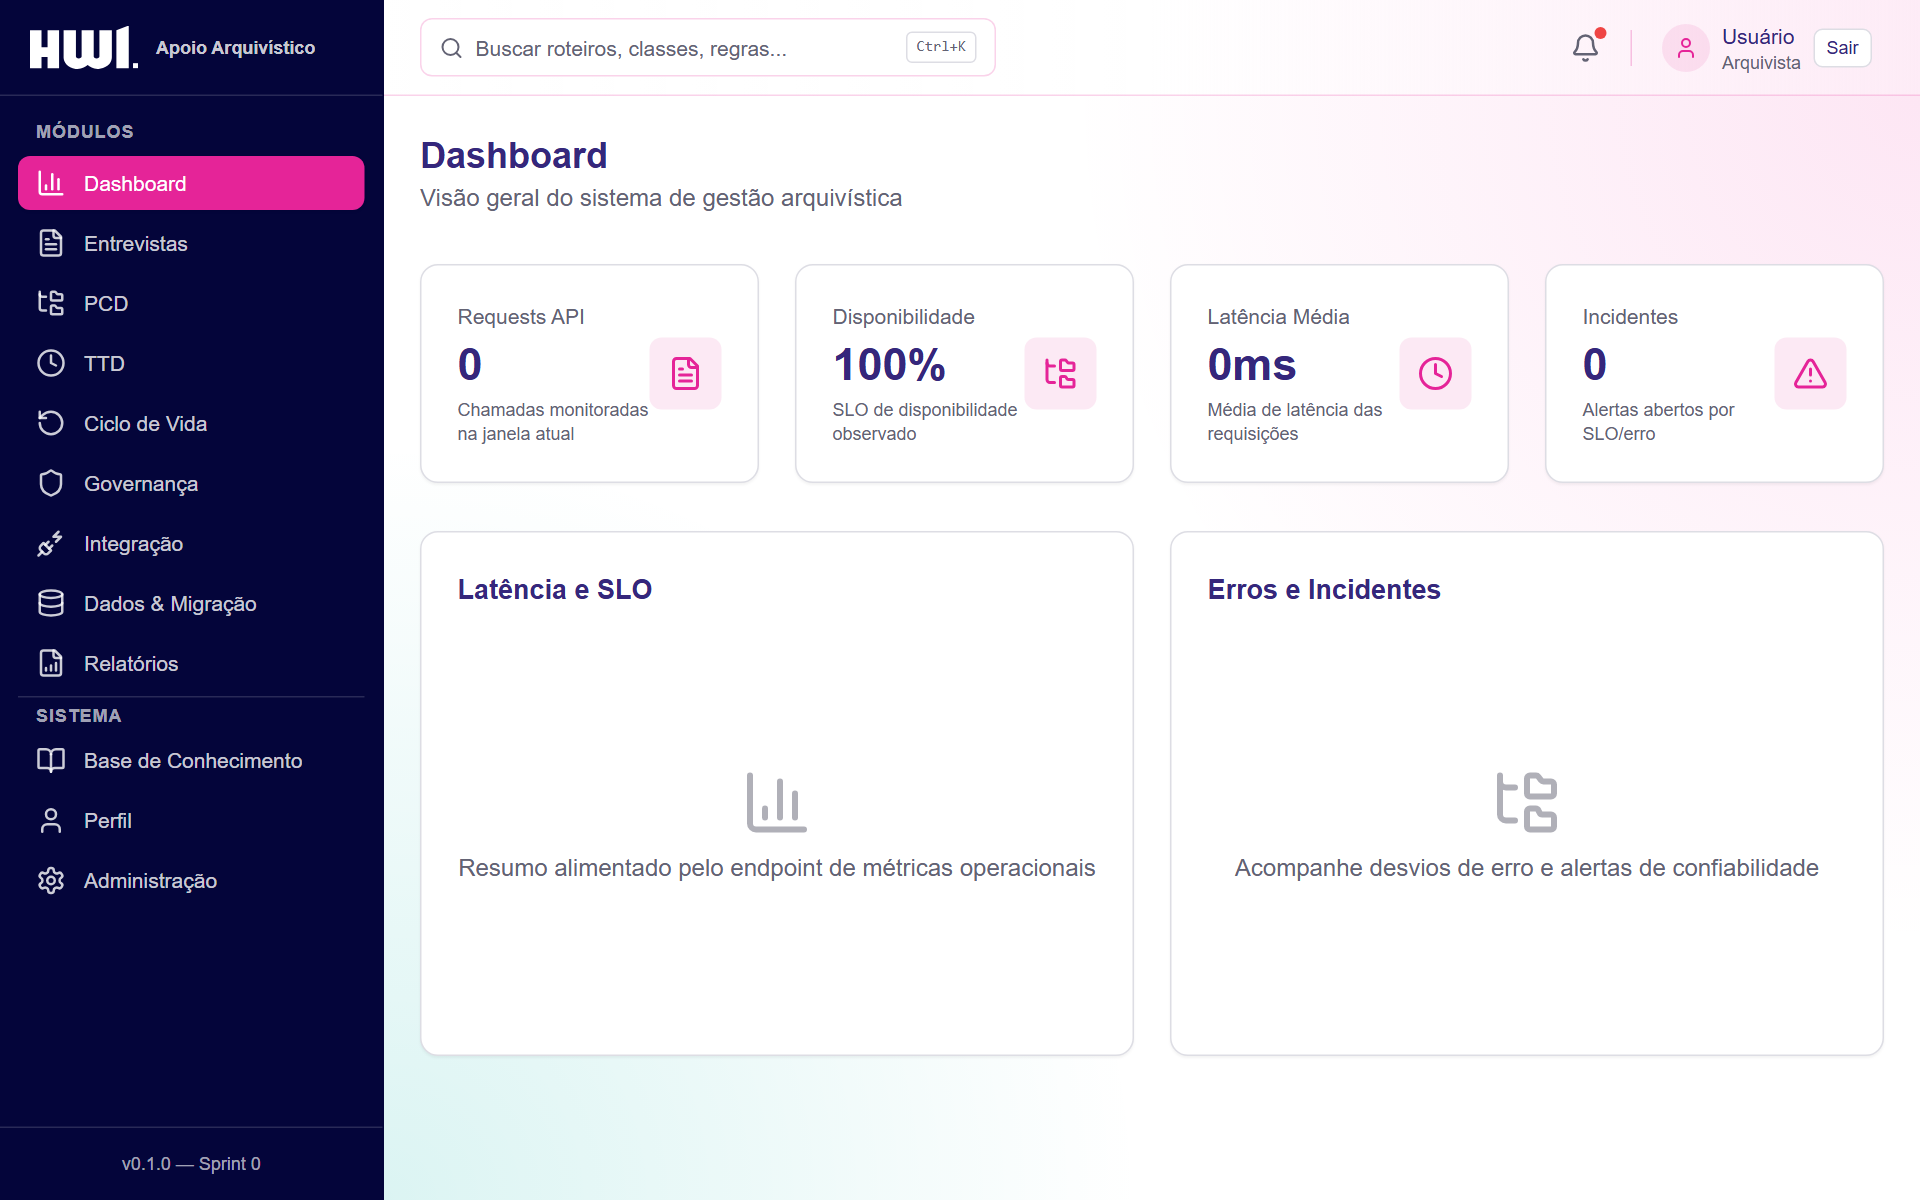
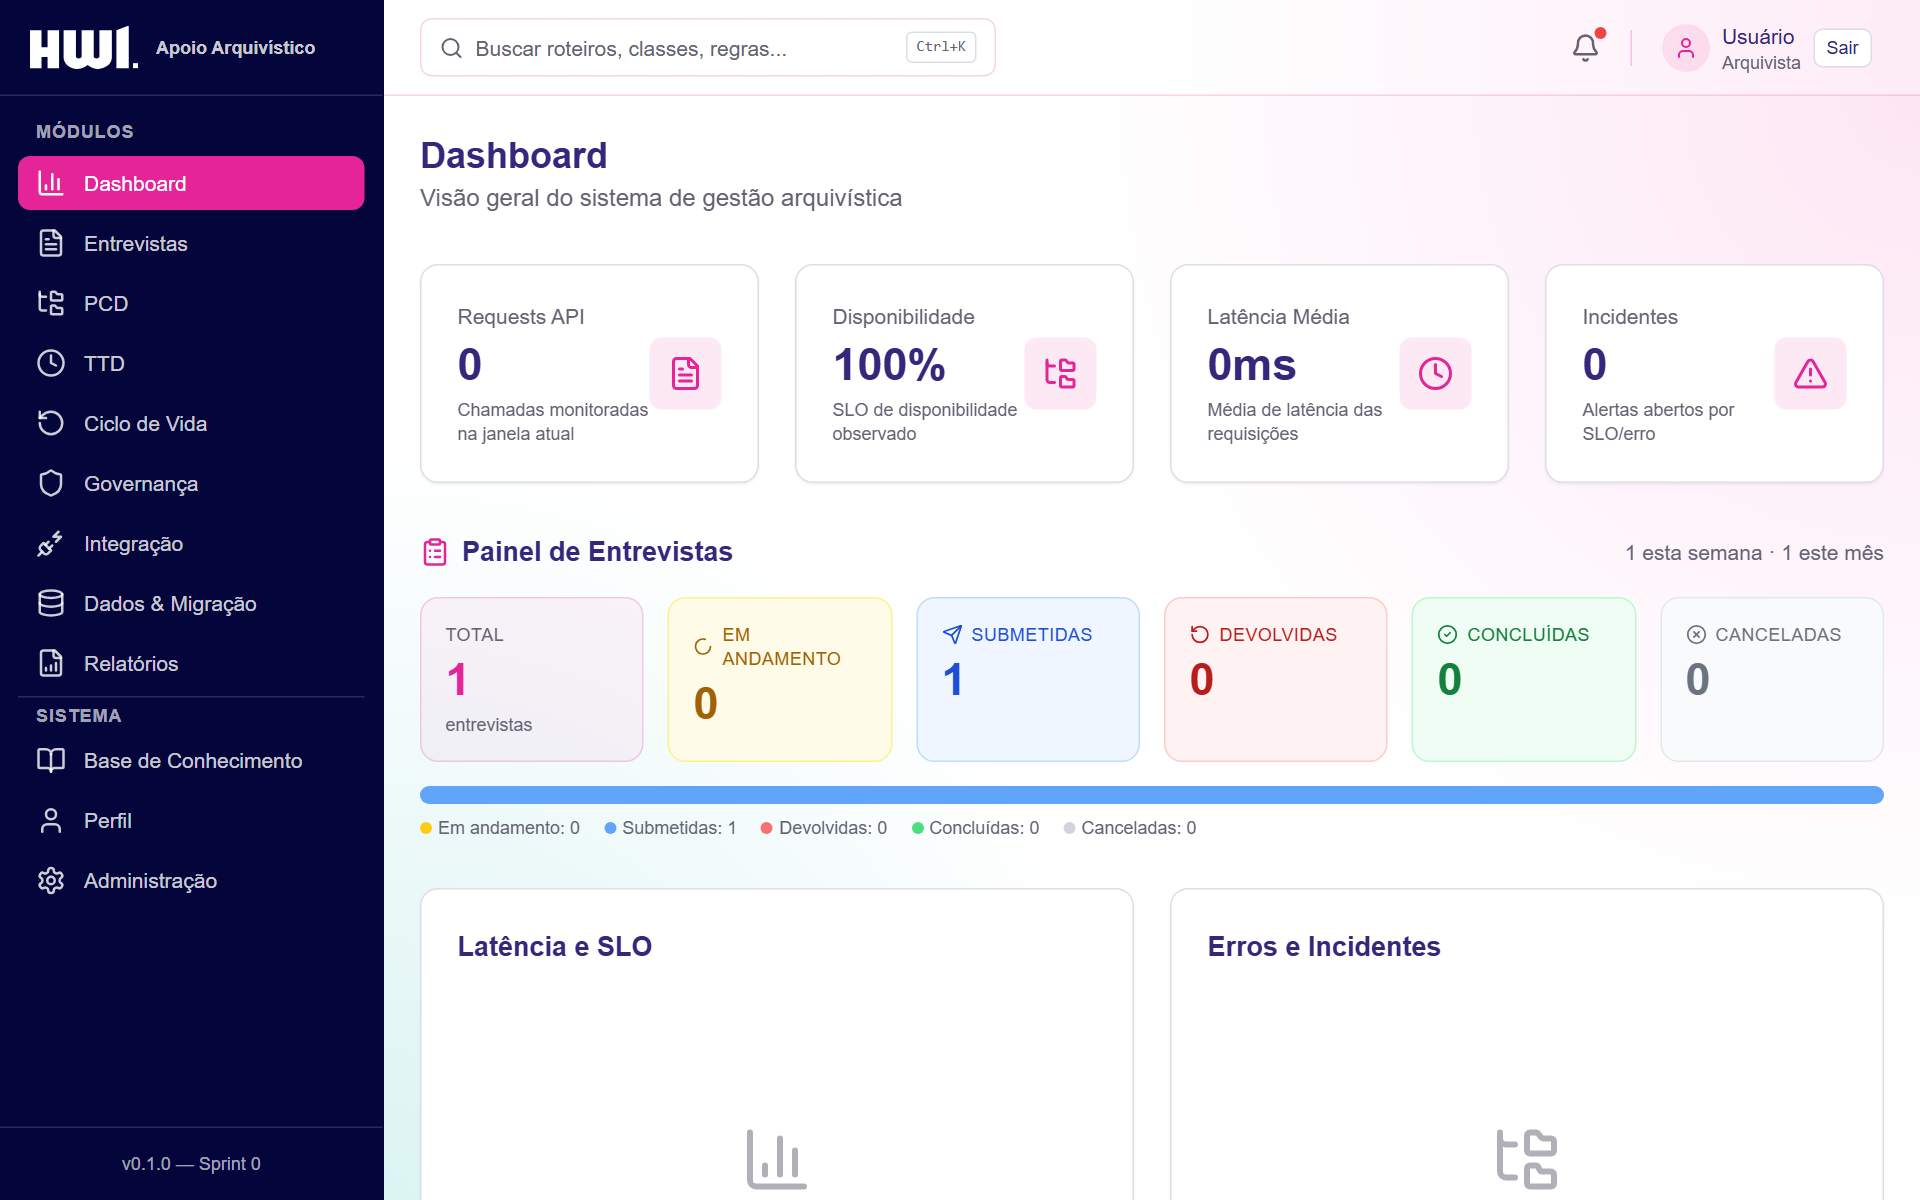
feat(dashboard): painel agregado de status de entrevistas
- Backend: GET /roteiros/entrevistas/resumo retorna total, por_status,
  esta_semana e este_mes com queries SQLAlchemy async
- Frontend hook: useEntrevistasResumo() via SWR em use-api.ts
- Dashboard: secao Painel de Entrevistas com card total, 5 cards por
  status (cores/icones Lucide), barra proporcional e legenda
- Screenshot do dashboard atualizado com novo painel

diff --git a/frontend/src/app/dashboard/page.tsx b/frontend/src/app/dashboard/page.tsx
@@ -1,12 +1,18 @@
 "use client";
 
-import { useMetricsSummary } from "@/hooks/use-api";
+import { useEntrevistasResumo, useMetricsSummary } from "@/hooks/use-api";
 import {
   BarChart3,
   FileText,
   FolderTree,
   Clock,
   AlertTriangle,
+  ClipboardList,
+  CheckCircle2,
+  RotateCcw,
+  Send,
+  XCircle,
+  Loader2,
 } from "lucide-react";
 import {
   DashboardPlaceholderChartCard,
@@ -21,9 +27,55 @@ type MetricsSummary = {
   incidents_open: number;
 };
 
+type EntrevistasResumo = {
+  total: number;
+  por_status: Record<string, number>;
+  esta_semana: number;
+  este_mes: number;
+};
+
+const STATUS_CONFIG: Record<
+  string,
+  { label: string; color: string; bg: string; icon: React.ElementType }
+> = {
+  em_andamento: {
+    label: "Em andamento",
+    color: "text-yellow-700",
+    bg: "bg-yellow-50 border-yellow-200",
+    icon: Loader2,
+  },
+  submetida: {
+    label: "Submetidas",
+    color: "text-blue-700",
+    bg: "bg-blue-50 border-blue-200",
+    icon: Send,
+  },
+  devolvida: {
+    label: "Devolvidas",
+    color: "text-red-700",
+    bg: "bg-red-50 border-red-200",
+    icon: RotateCcw,
+  },
+  concluida: {
+    label: "Concluídas",
+    color: "text-green-700",
+    bg: "bg-green-50 border-green-200",
+    icon: CheckCircle2,
+  },
+  cancelada: {
+    label: "Canceladas",
+    color: "text-gray-500",
+    bg: "bg-gray-50 border-gray-200",
+    icon: XCircle,
+  },
+};
+
 export default function DashboardPage() {
   const { data: metricsRaw } = useMetricsSummary();
   const metrics = (metricsRaw as MetricsSummary | undefined) ?? null;
+
+  const { data: resumoRaw } = useEntrevistasResumo();
+  const resumo = (resumoRaw as EntrevistasResumo | undefined) ?? null;
 
   return (
     <div className="space-y-8">
@@ -60,6 +112,113 @@ export default function DashboardPage() {
           description="Alertas abertos por SLO/erro"
           icon={AlertTriangle}
         />
+      </div>
+
+      {/* Painel de Entrevistas */}
+      <div>
+        <div className="flex items-center gap-2 mb-4">
+          <ClipboardList className="h-5 w-5 text-primary" />
+          <h2 className="text-lg font-semibold text-foreground">
+            Painel de Entrevistas
+          </h2>
+          {resumo && (
+            <span className="ml-auto text-sm text-muted-foreground">
+              {resumo.esta_semana} esta semana &middot; {resumo.este_mes} este mês
+            </span>
+          )}
+        </div>
+
+        {/* Total + status grid */}
+        <div className="grid grid-cols-2 md:grid-cols-3 lg:grid-cols-6 gap-4">
+          {/* Card total */}
+          <div className="col-span-1 rounded-xl border border-primary/20 bg-primary/5 p-4 flex flex-col gap-1">
+            <span className="text-xs font-medium text-muted-foreground uppercase tracking-wide">
+              Total
+            </span>
+            <span className="text-3xl font-bold text-primary">
+              {resumo?.total ?? "—"}
+            </span>
+            <span className="text-xs text-muted-foreground">entrevistas</span>
+          </div>
+
+          {/* Cards por status */}
+          {Object.entries(STATUS_CONFIG).map(([st, cfg]) => {
+            const Icon = cfg.icon;
+            const count = resumo?.por_status?.[st] ?? 0;
+            return (
+              <div
+                key={st}
+                className={`rounded-xl border p-4 flex flex-col gap-1 ${cfg.bg}`}
+              >
+                <div className="flex items-center gap-1.5">
+                  <Icon className={`h-3.5 w-3.5 ${cfg.color}`} />
+                  <span
+                    className={`text-xs font-medium uppercase tracking-wide ${cfg.color}`}
+                  >
+                    {cfg.label}
+                  </span>
+                </div>
+                <span className={`text-3xl font-bold ${cfg.color}`}>
+                  {resumo ? count : "—"}
+                </span>
+              </div>
+            );
+          })}
+        </div>
+
+        {/* Barra de progresso proporcional */}
+        {resumo && resumo.total > 0 && (
+          <div className="mt-4">
+            <div className="flex h-3 w-full overflow-hidden rounded-full bg-muted gap-0.5">
+              {Object.entries(STATUS_CONFIG).map(([st, cfg]) => {
+                const count = resumo.por_status?.[st] ?? 0;
+                const pct = (count / resumo.total) * 100;
+                if (pct === 0) return null;
+                return (
+                  <div
+                    key={st}
+                    title={`${cfg.label}: ${count} (${pct.toFixed(0)}%)`}
+                    style={{ width: `${pct}%` }}
+                    className={`h-full transition-all ${
+                      st === "em_andamento"
+                        ? "bg-yellow-400"
+                        : st === "submetida"
+                        ? "bg-blue-400"
+                        : st === "devolvida"
+                        ? "bg-red-400"
+                        : st === "concluida"
+                        ? "bg-green-400"
+                        : "bg-gray-300"
+                    }`}
+                  />
+                );
+              })}
+            </div>
+            <div className="flex flex-wrap gap-4 mt-2 text-xs text-muted-foreground">
+              {Object.entries(STATUS_CONFIG).map(([st, cfg]) => {
+                const count = resumo.por_status?.[st] ?? 0;
+                return (
+                  <span key={st} className="flex items-center gap-1">
+                    <span
+                      className={`inline-block h-2 w-2 rounded-full ${
+                        st === "em_andamento"
+                          ? "bg-yellow-400"
+                          : st === "submetida"
+                          ? "bg-blue-400"
+                          : st === "devolvida"
+                          ? "bg-red-400"
+                          : st === "concluida"
+                          ? "bg-green-400"
+                          : "bg-gray-300"
+                      }`}
+                    />
+                    {cfg.label}: {count}
+                  </span>
+                );
+              })}
+            </div>
+          </div>
+        )}
       </div>
 
       {/* Placeholder Charts */}

diff --git a/docs/doc-gen/_captura_dashboard.js b/docs/doc-gen/_captura_dashboard.js
@@ -1,0 +1,24 @@
+// Captura screenshot do dashboard após login
+const path = require('path');
+const { chromium } = require(require.resolve('@playwright/test', {
+  paths: [path.resolve(__dirname, '../../frontend/node_modules')],
+}));
+
+(async () => {
+  const browser = await chromium.launch({ headless: true });
+  const ctx = await browser.newContext({ viewport: { width: 1280, height: 800 }, deviceScaleFactor: 1.5 });
+  const page = await ctx.newPage();
+
+  await page.goto('http://localhost:4000/login', { waitUntil: 'networkidle', timeout: 120000 });
+  await page.fill('input[type="email"]', '[email redacted]');
+  await page.fill('input[type="password"]', 'Admin@2026');
+  await page.click('button[type="submit"]');
+  await page.waitForURL(/dashboard/, { timeout: 60000 });
+  // aguarda painel carregar dados
+  await page.waitForTimeout(3000);
+
+  const out = path.resolve(__dirname, '../screenshots/dashboard.png');
+  await page.screenshot({ path: out, fullPage: false });
+  console.log('OK:', out);
+  await browser.close();
+})().catch(e => { console.error(e.message); process.exit(1); });

diff --git a/frontend/src/hooks/use-api.ts b/frontend/src/hooks/use-api.ts
@@ -119,3 +119,7 @@ export function useStats() {
 export function useMetricsSummary() {
   return useDashboardSWR("/metrics/summary");
 }
+
+export function useEntrevistasResumo() {
+  return useDashboardSWR("/roteiros/entrevistas/resumo");
+}

diff --git a/backend/app/routers/roteiros.py b/backend/app/routers/roteiros.py
@@ -229,6 +229,13 @@ class SugestaoClasseResponse(BaseModel):
     sugestao_justificativa: str
 
 
+class EntrevistasResumoResponse(BaseModel):
+    total: int
+    por_status: dict[str, int]
+    esta_semana: int
+    este_mes: int
+
+
 # ===== Endpoints =====
 
 @router.get("", response_model=PaginatedResponse)
@@ -695,6 +702,52 @@ async def listar_entrevistas_roteiro(
         .order_by(Entrevista.created_at.desc())
     )
     return result.scalars().all()
+
+
[email redacted]("/entrevistas/resumo", response_model=EntrevistasResumoResponse)
+async def resumo_entrevistas(
+    db: AsyncSession = Depends(get_db),
+    current_user: User = Depends(get_current_user),
+):
+    """Resumo agregado de todas as entrevistas: total, por status, última semana e último mês."""
+    from datetime import timedelta
+
+    agora = datetime.now(UTC)
+    inicio_semana = agora - timedelta(days=7)
+    inicio_mes = agora - timedelta(days=30)
+
+    todos_status = ["em_andamento", "submetida", "devolvida", "concluida", "cancelada"]
+
+    # contagem total
+    total_result = await db.execute(select(func.count()).select_from(Entrevista))
+    total = total_result.scalar() or 0
+
+    # contagem por status
+    por_status: dict[str, int] = {}
+    for st in todos_status:
+        r = await db.execute(
+            select(func.count()).select_from(Entrevista).where(Entrevista.status == st)
+        )
+        por_status[st] = r.scalar() or 0
+
+    # criadas na última semana
+    r_semana = await db.execute(
+        select(func.count()).select_from(Entrevista).where(Entrevista.created_at >= inicio_semana)
+    )
+    esta_semana = r_semana.scalar() or 0
+
+    # criadas no último mês
+    r_mes = await db.execute(
+        select(func.count()).select_from(Entrevista).where(Entrevista.created_at >= inicio_mes)
+    )
+    este_mes = r_mes.scalar() or 0
+
+    return EntrevistasResumoResponse(
+        total=total,
+        por_status=por_status,
+        esta_semana=esta_semana,
+        este_mes=este_mes,
+    )
 
 
 @router.get("/entrevistas/{entrevista_id}", response_model=EntrevistaResponse)